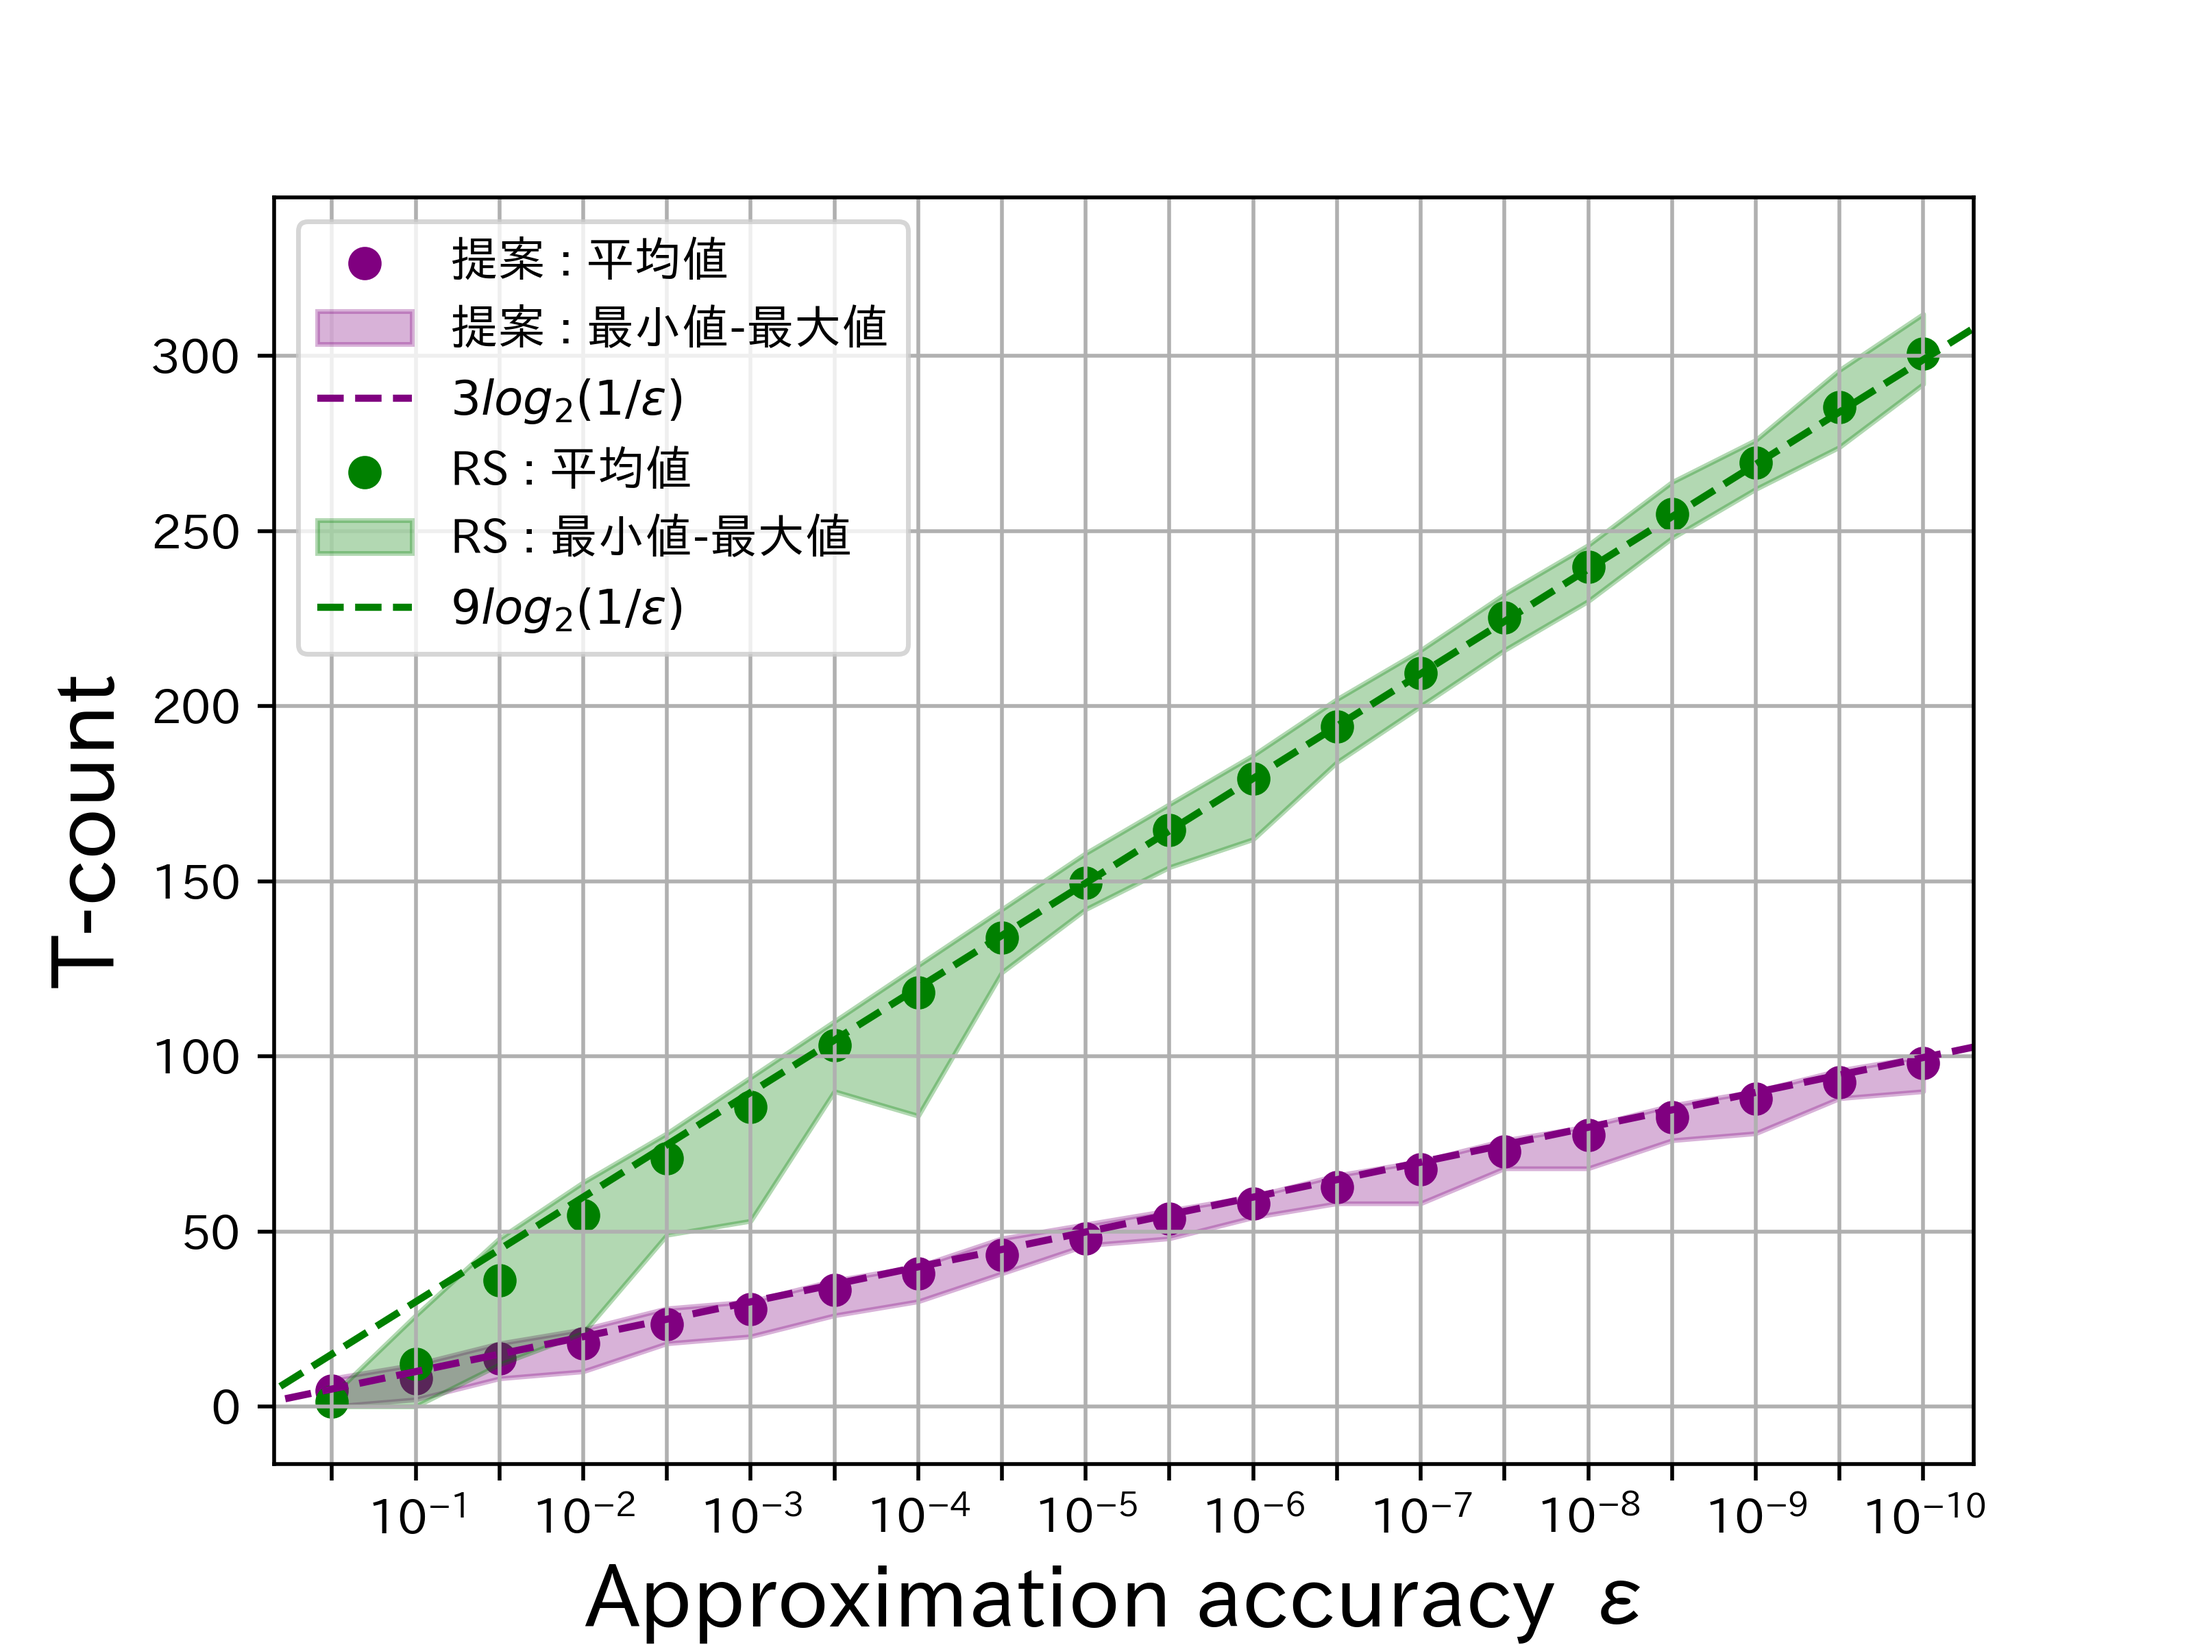
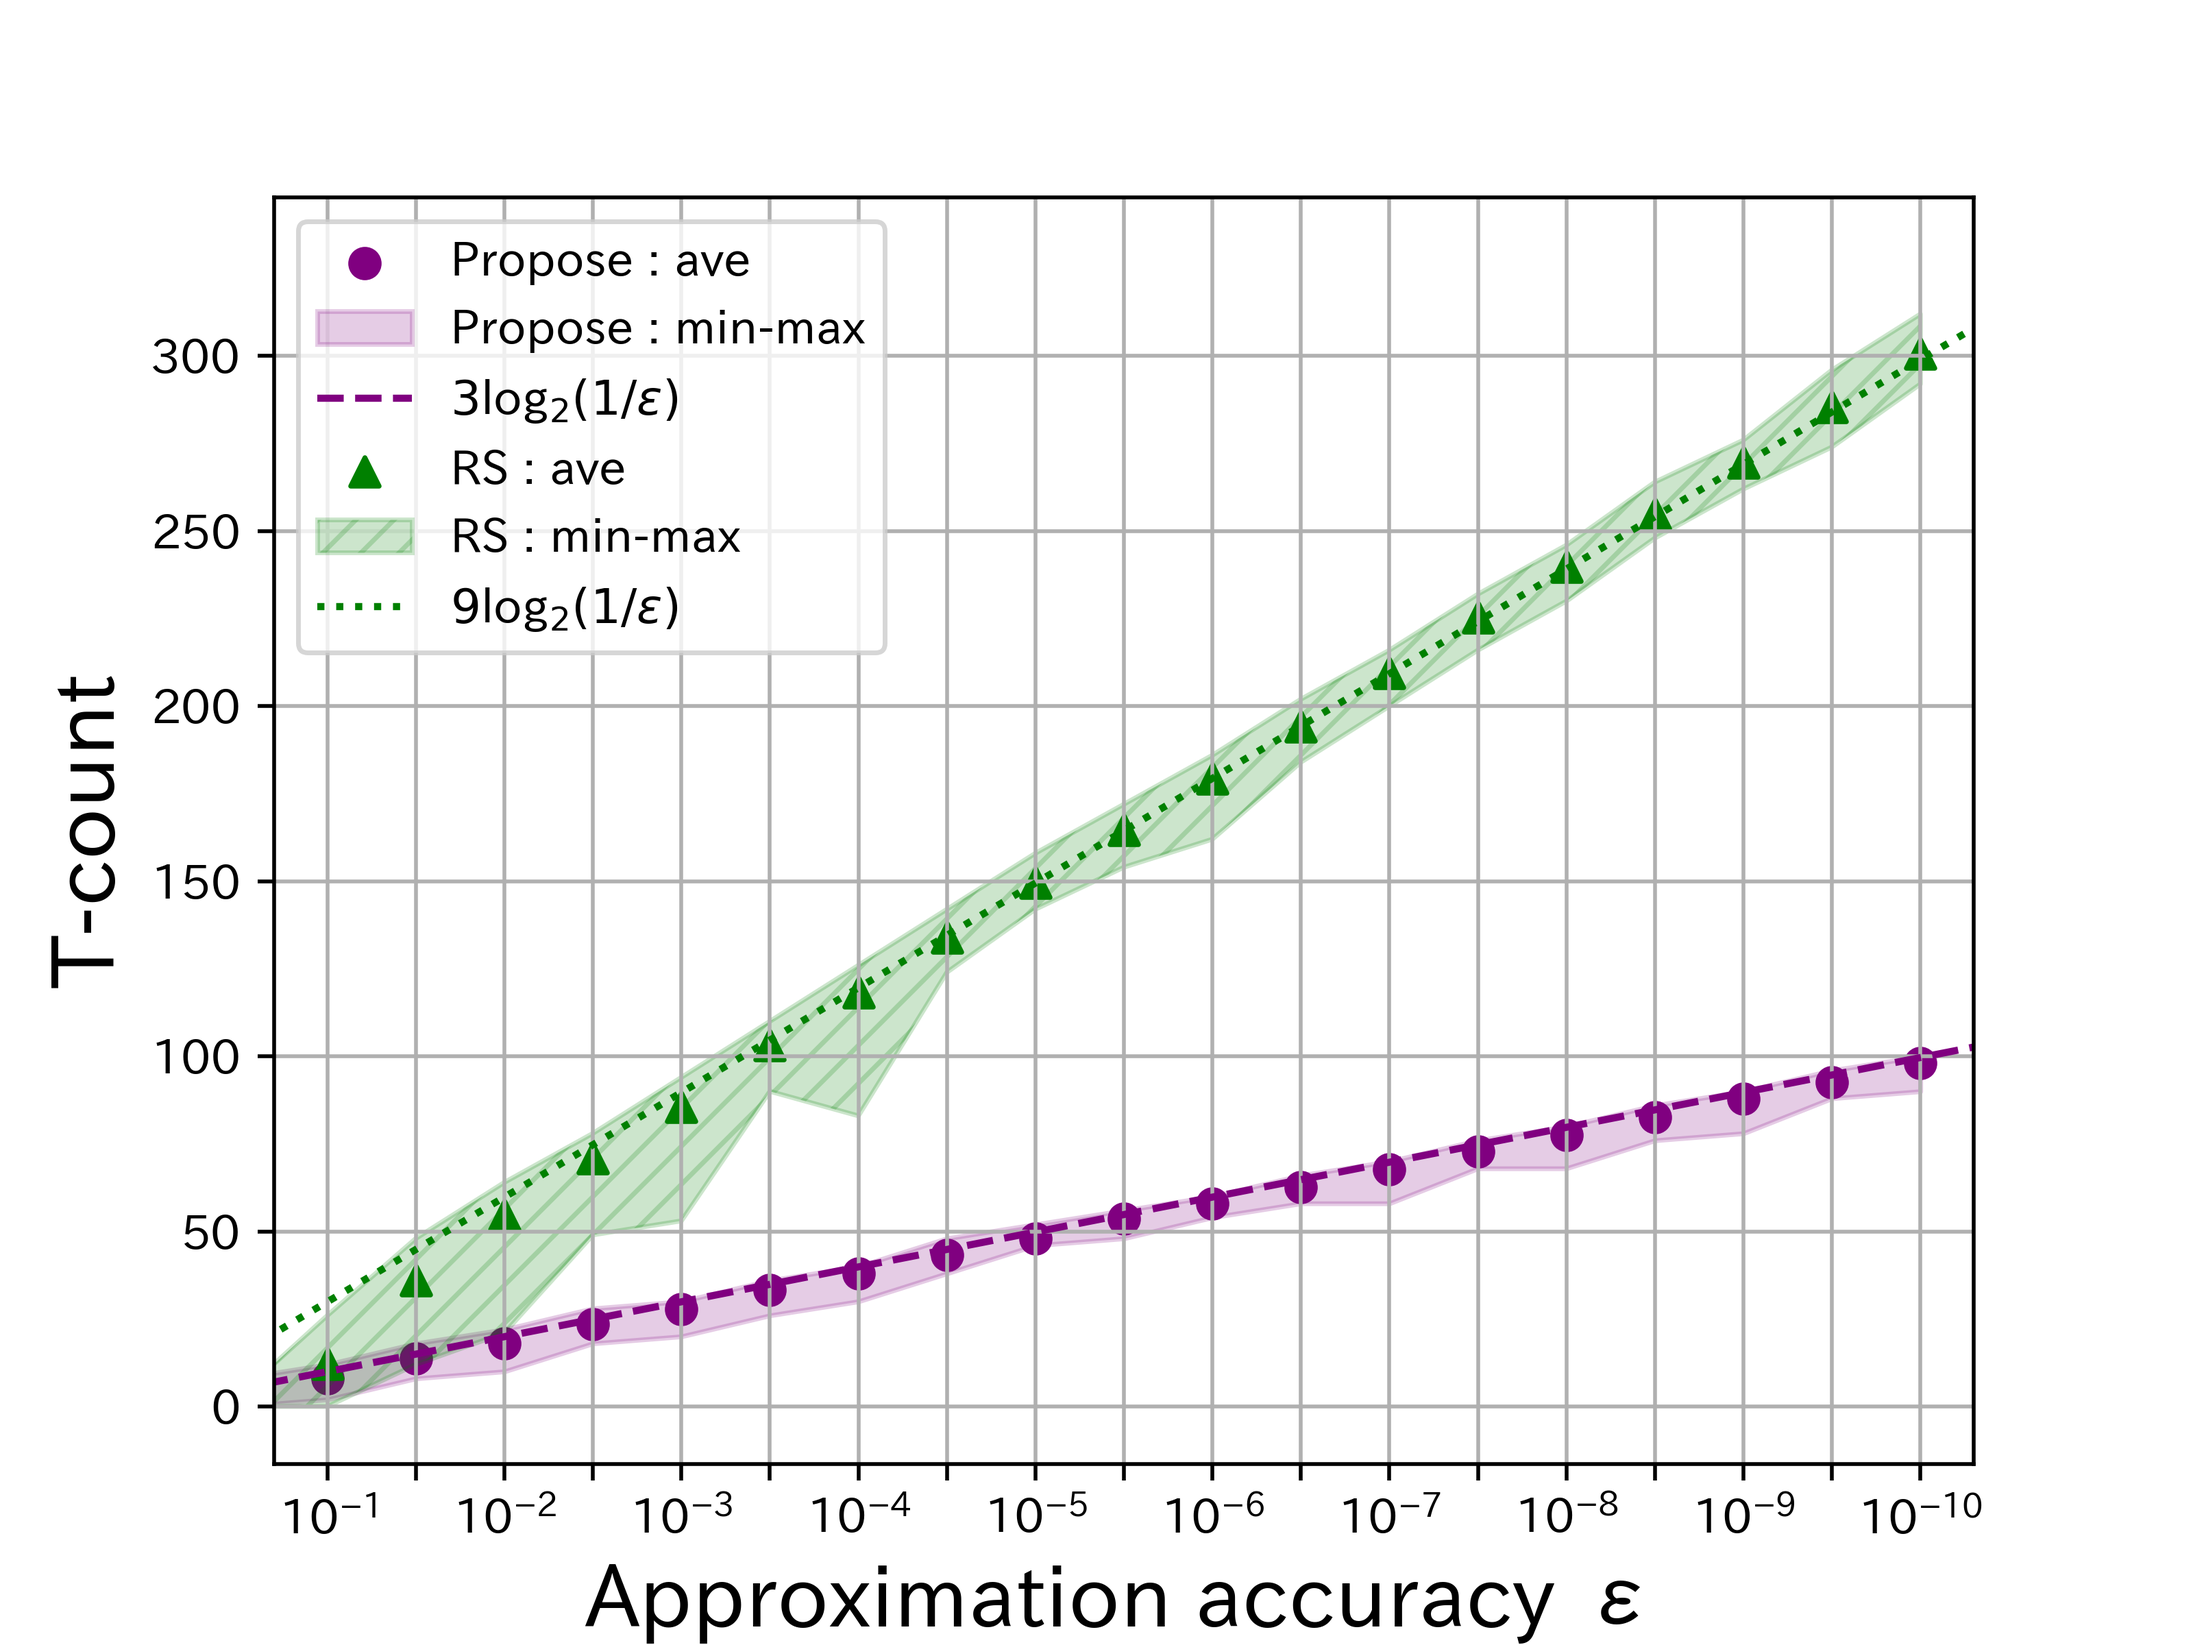
fix

diff --git a/src/CPU/bench.cpp b/src/CPU/bench.cpp
@@ -1,7 +1,26 @@
 #include <bits/stdc++.h>
+#include <Eigen/Dense>
 #include "solve_u_t.cpp"
 
 using namespace std;
+using Eigen::Matrix2cd;
+
+
+double distance(
+    std::complex<double> u, std::complex<double> t, std::complex<double> u_approx, std::complex<double> t_approx)
+{
+    std::complex<double> diff_u = u - u_approx;
+    std::complex<double> diff_t = t - t_approx;
+    double ret1 =  std::sqrt((diff_u * std::conj(diff_u)).real() + (diff_t * std::conj(diff_t)).real());
+
+    diff_u = u + u_approx;
+    diff_t = t + t_approx;
+    double ret2 =  std::sqrt((diff_u * std::conj(diff_u)).real() + (diff_t * std::conj(diff_t)).real());
+
+    return std::min(ret1, ret2);
+}
+
+
 
 int main(){
     random_device rd;
@@ -10,12 +29,20 @@ int main(){
 
     vector<double> epsilons;
     double eps = sqrt(0.1);
-    while(eps >= 1e-9){
+    while(eps >= 1e-1){
         epsilons.push_back(eps);
         eps = eps / 10.0;
     }
 
     cout << "精度, MAX, MIN, 平均, 標準偏差" << endl;
+
+    complex<double> exp_pi_8 = {cos(M_PI / 8.), sin(M_PI / 8.)};
+    Matrix2cd T;
+    T << conj(exp_pi_8), 0.,
+         0., exp_pi_8;
+    vector<Matrix2cd> T_powers(8);
+    T_powers[0] = Matrix2cd::Identity();
+    for(int i = 1; i < 8; i++) T_powers[i] = T * T_powers[i-1]; 
 
     for(double eps : epsilons){
         vector<int> T_counts;
@@ -27,8 +54,22 @@ int main(){
             complex<double> u = exp(1.0i*theta1)*cos(theta2);
             complex<double> t = exp(1.0i*theta3)*sin(theta2);
 
+            int j = 0;
+            for(j = 0; j < 8; j++){
+                Matrix2cd V = T_powers[j];
+                // cout << V(0,0) << " " << V(1,0) << endl;
+                // cout << "distance " << distance(u, t, V(0,0), V(1,0)) << endl;
+                if(distance(u, t, V(0,0), V(1,0)) < eps){
+                    T_counts.push_back(j % 2);
+                    cout << "aaa" << endl;
+                    break;
+                }
+            }
+            if(j != 8) continue;
+
             tuple<ZOmega<long>, ZOmega<long>, int> ans = solve_u_t<long>(u, t, eps);
             T_counts.push_back(2.0*(double)get<2>(ans));
+            cout << 2.0*(double)get<2>(ans) << endl;
         }
 
         int MAX = *max_element(T_counts.begin(), T_counts.end());

diff --git a/src/plot/plot.py b/src/plot/plot.py
@@ -43,24 +43,28 @@ RS_MAX = [3, 26, 48, 64, 78, 94, 110, 126, 142, 158, 172, 186, 202, 216, 232, 24
 RS_MIN = [0, 0, 12, 21, 49, 53, 90, 83, 124, 142, 154, 162, 184, 200, 216, 230, 248, 262, 274, 292]
 RS_mean = [1.34, 12.07, 36.05, 54.53, 70.85, 85.53, 103.2, 118.23, 133.9, 149.48, 164.72, 179.22, 194.18, 209.4, 225.38, 239.8, 254.92, 269.46, 285.48, 300.76]
 
+# RS_MAX = [26, 48, 62, 78, 98, 112, 128, 140, 154, 174, 186, 200, 220, 232, 248, 262, 276, 294, 304, 322]
+# RS_MIN = [0, 10, 15, 46, 72, 94, 104, 120, 138, 154, 172, 180, 198, 216, 230, 244, 256, 272, 288, 304]
+# RS_mean = [11.78, 33.84, 53.44, 69.65, 86.1, 102.54, 117.64, 132.34, 148.38, 163.34, 178.42, 193.48, 208.48, 224.66, 239.06, 254.04, 269.0, 284.86, 299.42, 314.42]
+
 
 clr = plt.cm.Purples(0.9)
 fig, ax = plt.subplots()
-ax.scatter(x, mean, label="提案 : 平均値", color="purple")
-ax.fill_between(x, MIN, MAX, alpha=0.3, edgecolor="purple", facecolor="purple", label="提案 : 最小値-最大値")
-ax.plot(x_3log, y_3log, "--", color="purple", label="$3log_{2}(1/\epsilon)$")
+ax.scatter(x, mean, label="Propose : ave", color="purple")
+ax.fill_between(x, MIN, MAX, alpha=0.2, edgecolor="purple", facecolor="purple", label="Propose : min-max")
+ax.plot(x_3log, y_3log, "--", color="purple", label="$3$log$_{2}(1/\epsilon)$")
 ax.grid()
 
-ax.scatter(Rs_x, RS_mean, label="RS : 平均値", color="g")
-ax.fill_between(Rs_x, RS_MIN, RS_MAX, alpha=0.3, edgecolor="g", facecolor="g", label="RS : 最小値-最大値")
-ax.plot(x_3log, y_9log, "--", color="g", label="$9log_{2}(1/\epsilon)$")
+ax.scatter(Rs_x, RS_mean, label="RS : ave", color="g", marker="^")
+ax.fill_between(Rs_x, RS_MIN, RS_MAX, alpha=0.2, edgecolor="g", facecolor="g", label="RS : min-max", hatch="///")
+ax.plot(x_3log, y_9log, ":", color="g", label="$9$log$_{2}(1/\epsilon)$")
 
 
 ax.set_xscale("log")
 x.reverse()
 ax.set_xticks(x)
 ax.invert_xaxis()
-ax.set_xlim(0.7, 0.5*1e-10)
+ax.set_xlim(0.2, 0.5*1e-10)
 
 ax.set_xlabel("Approximation accuracy ε", fontsize=18)
 ax.set_ylabel("T-count", fontsize=18)

diff --git a/src/CPU/example.cpp b/src/CPU/example.cpp
@@ -5,7 +5,7 @@ using namespace std;
 
 int main(){
     random_device rd;
-    default_random_engine eng(1234);
+    default_random_engine eng(rd());
     uniform_real_distribution<double> distr(0.0, 2*M_PI);
 
     double theta1 = distr(eng);
@@ -20,7 +20,7 @@ int main(){
     // cout << "norm " << abs(u)*abs(u) + abs(t)*abs(t) << endl;
 
 
-    tuple<ZOmega<long>, ZOmega<long>, int> ans = solve_u_t<long>(u, t, 1e-9);
+    tuple<ZOmega<long>, ZOmega<long>, int> ans = solve_u_t<long>(u, t, sqrt(0.1));
     complex<double> u_prime = convert(get<0>(ans), get<2>(ans));
     complex<double> t_prime = convert(get<1>(ans), get<2>(ans));
 

diff --git a/src/CPU/solve_u_t.cpp b/src/CPU/solve_u_t.cpp
@@ -114,6 +114,7 @@ Pair_ZOmega<T> _solve_u_t(std::complex<double> u, std::complex<double> t, double
                                          sqrt2_W_omega.begin(), sqrt2_W_omega.end(), pow_2_k_1);
     for(auto [x, y, z, w] : solutions4) solutions_total.push_back({convert2(*x, *y), convert2(*z, *w)});
 
+
     double min_error = eps + 1.0;    // 初期値はepsより大きい適当な値
     Pair_ZOmega<T> ret;
     for(auto P : solutions_total){

diff --git a/src/CPU/exact_decomp.cpp b/src/CPU/exact_decomp.cpp
@@ -1,0 +1,7 @@
+#include <bits/stdc++.h>
+#include "Rings.cpp"
+
+template<typename T>
+std::string exact_decomposition(ZOmega<T> u, ZOmega<T> t, int k){
+    std::string S_out = "";
+}
